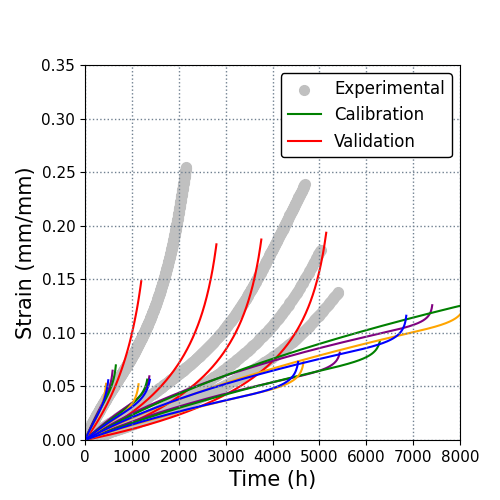
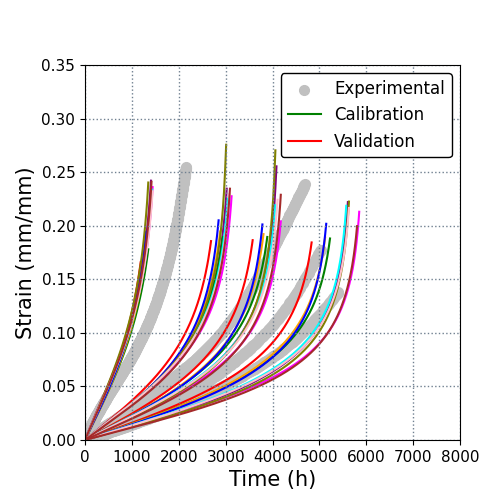
new scripts

Changed region(s): [[0.15, 0.3, 0.93, 0.9], [0.45, 0.3, 0.48, 0.33]]

diff --git a/scripts/plot_sem/plot_evpwd_1000.py b/scripts/plot_sem/plot_evpwd_1000.py
@@ -20,11 +20,16 @@ itf.read_data("tensile/inl/AirBase_1000_D12.csv")
 itf.add_error("dummy")
 
 params_str = """
-0.0030429	6.0057	6.3032	4.9738	466.69	95.95	443.77	127.06	817.16	1.5572	0.85064
-0.12298	9.1243	3.1519	4.5922	539.1	95.949	262.85	143.39	792.9	1.4623	2.8229
-0.10561	6.293	3.16	4.6134	542.91	95.949	273.15	143.87	812.45	1.5283	2.8592
-0.0046154	4.8352	4.7828	4.8329	467.34	95.944	269	149.31	883.49	1.1257	2.235
-0.004615	6.1843	4.9502	4.8326	460.84	95.945	279.57	144.14	800.16	1.1257	2.2364
+0.004615	6.1843	2.2823	4.8326	460.27	7.2738	50.913	269.77	601.74	1.564	8.739
+3.9207	130.97	0.16188	3.9466	752.32	7.2738	50.913	269.77	601.74	1.564	8.739
+0.012675	18.528	0.99367	4.8134	471.18	7.2738	50.913	269.77	601.74	1.564	8.739
+0.26123	35.054	0.42681	4.7436	490.7	7.2738	50.913	269.77	601.74	1.564	8.739
+1.4714	3.11	5.9009	4.4241	584.77	7.2738	50.913	269.77	601.74	1.564	8.739
+4.1445	21.946	1.2583	3.9467	726.26	7.2738	50.913	269.77	601.74	1.564	8.739
+3.2085	17.287	1.3622	4.0769	697.16	7.2738	50.913	269.77	601.74	1.564	8.739
+4.3446	10.148	2.2066	3.8806	776.41	7.2738	50.913	269.77	601.74	1.564	8.739
+3.3748	51.076	0.45747	4.0575	700.49	7.2738	50.913	269.77	601.74	1.564	8.739
+4.2665	246.76	0.084953	3.9445	738.14	7.2738	50.913	269.77	601.74	1.564	8.739
 
 """
 params_list = [list(map(float, line.split())) for line in params_str.strip().split("\n")]

diff --git a/scripts/evpcd_f/evpcd_1000_st.py b/scripts/evpcd_f/evpcd_1000_st.py
@@ -20,6 +20,13 @@ params_str = """
 params_list = [list(map(float, line.split())) for line in params_str.strip().split("\n")]
 itf.fix_params(params_list[int(sys.argv[1])])
 
+itf.init_param("c_0", 7.2439)
+itf.init_param("c_1", 50.84)
+itf.init_param("t_0", 271.92)
+itf.init_param("t_1", 601.52)
+itf.init_param("c_n", 1.5581)
+itf.init_param("t_n", 9.5121)
+
 itf.read_data("creep/inl_1/AirBase_1000_16_G18.csv")
 itf.remove_oxidation()
 itf.add_error("area", "time", "strain")
